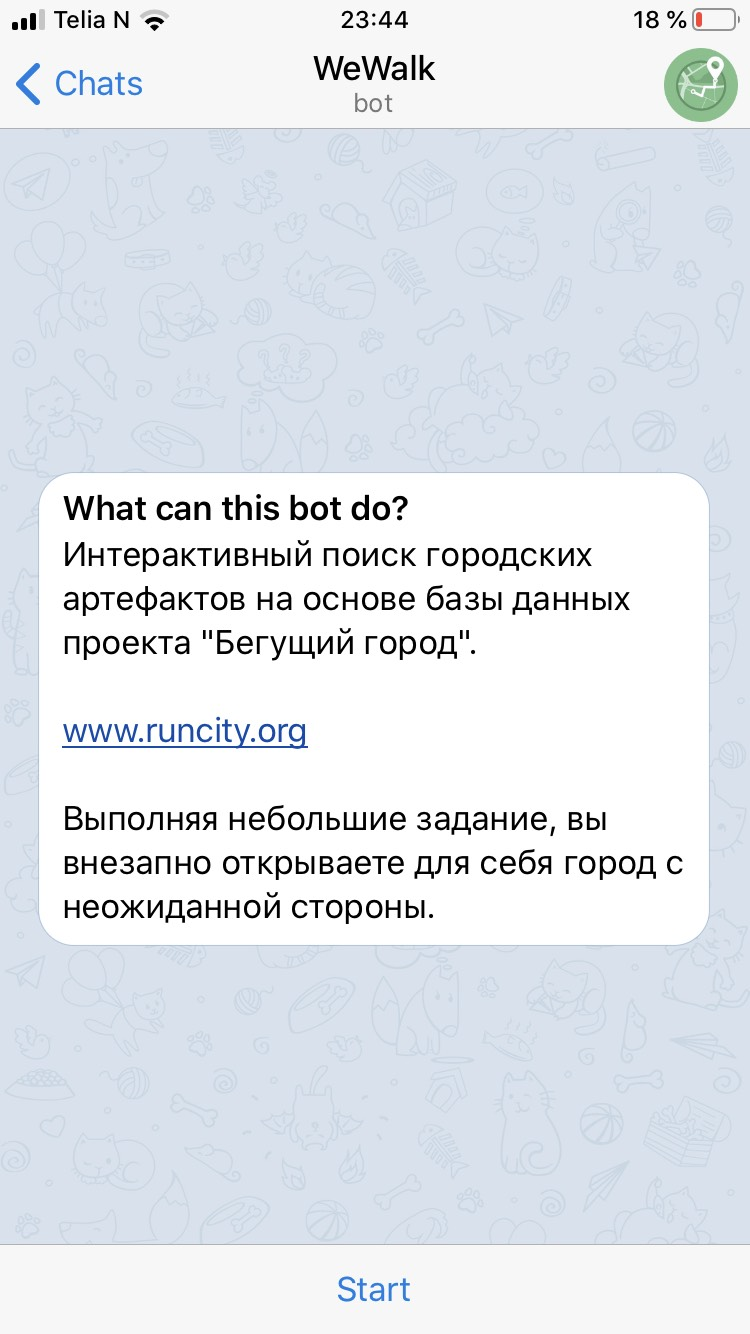
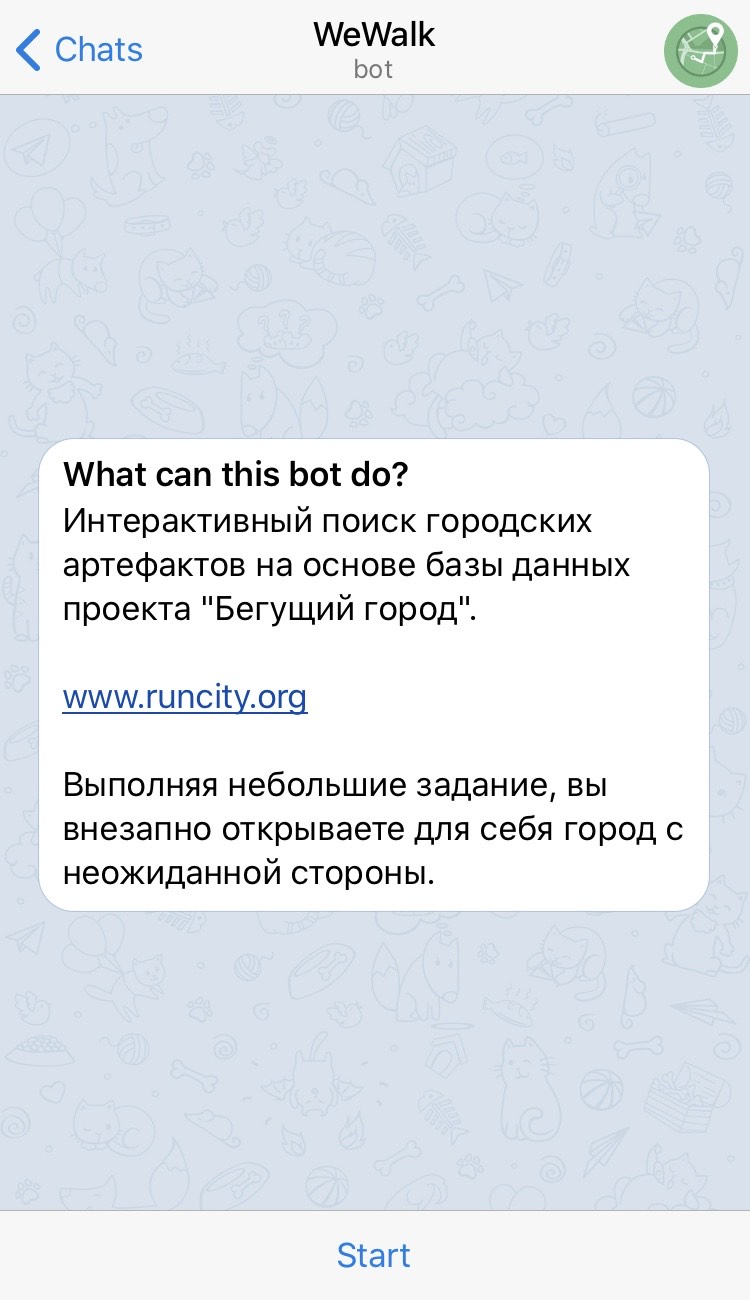
readme updated

diff --git a/README.md b/README.md
@@ -7,4 +7,7 @@ Discover your city while completing small tasks.
 
 Just go to the Telegram app on your device and find a bot named **@sightspotter_bot**
 
-<p align="center"><img src="misc/IMG_3131.jpg" width="400"></p>  
+<p align="center">
+<img src="misc/IMG_3130.jpg" width="300"> 
+<img src="misc/IMG_3131.jpg" width="300">
+</p>  
